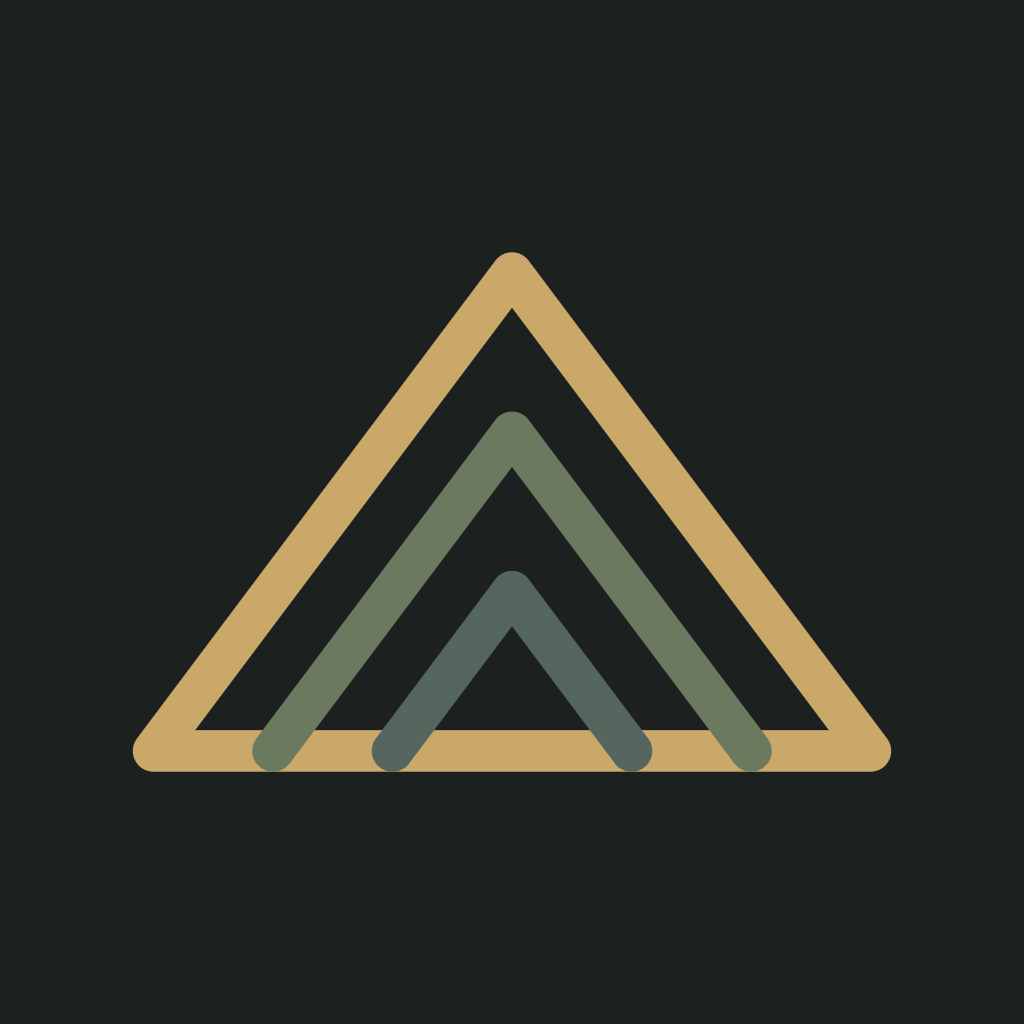
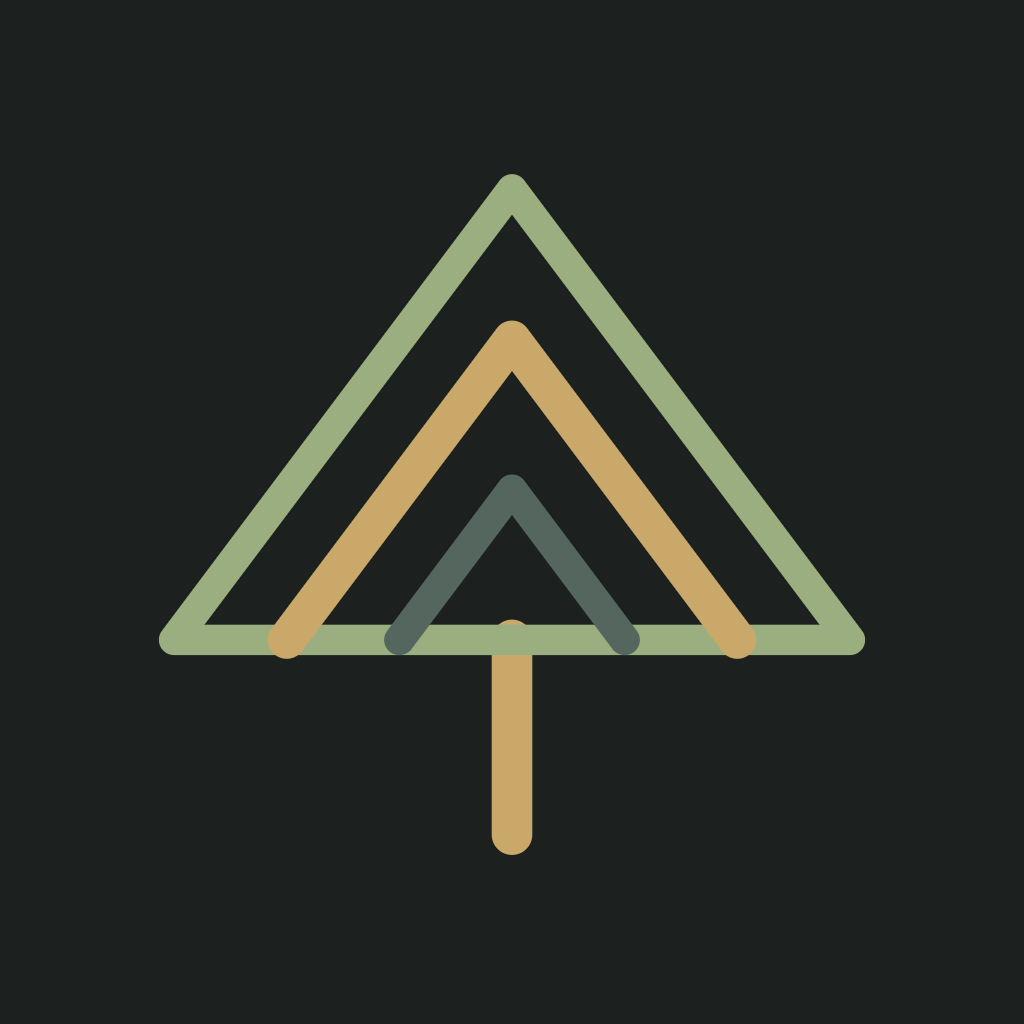
Green canopy, gold trunk, and one ring lit per app
The triangles are untouched: same ratio, same nesting, same shared
baseline. What changed around them is the colour and the trunk under them.

The canopy is one green ramp and the gold moved down to the trunk. Gold is
the family accent, so the mark's one warm element is now the part the family
is named for: the canopy is what grows and the trunk is what becomes the
log. Brown was tried first and refused on measurement, at 2.66:1 on the
ground where it read as the dimmest thing in the mark; gold is 7.22:1 and
anchors the whole thing, which matters because green is a much weaker
carrier than gold and the mark is quieter than it was.

The ramp had to climb past sage rather than below it. The palette's own
three greens run 1.76:1, 2.68:1 and 3.55:1, which is one step and a rumour,
since the darkest is already invisible. The new three are 6.79, 4.26 and
2.68, evenly spaced at 1.59x, lightest outermost so the silhouette is the
strongest line, which is the same reasoning that once put gold there.

Moving gold out of the canopy freed it to mean exactly one thing, which is
this app. An icon lights one ring and the family mark lights none, so the
two can never be confused. That was the flaw in the previous system, where
Untilt's icon and the family mark differed by one stroke's tone. Log is
Observe, so every icon this repo writes lights the middle ring, and the
static pages carry the unlit family mark.

The insets came in with it. A canopy with a trunk under it is about as tall
[…]

Changed region(s): [[0.125, 0.1562, 0.875, 0.8438]]

diff --git a/src/theme/__tests__/palette.test.ts b/src/theme/__tests__/palette.test.ts
@@ -18,11 +18,20 @@ import { colors } from '../index';
 
 const ROOT = join(__dirname, '..', '..', '..');
 const brand = readFileSync(join(ROOT, 'BRAND.md'), 'utf8');
+/**
+ * Only the palette table. The document has other tables with a name and a hex
+ * in them, the canopy ramp's measurements among them, and parsing the whole
+ * file swept those up as if they were tokens.
+ */
+const paletteSection = brand.slice(
+  brand.indexOf('## The palette'),
+  brand.indexOf('##', brand.indexOf('## The palette') + 3),
+);
 const iconScript = readFileSync(join(ROOT, 'scripts', 'generate-icons.mjs'), 'utf8');
 
 /** Every `| Name | \`#hex\` | ... |` row of the palette table, lowercased. */
 const declared = new Map<string, string[]>(
-  [...brand.matchAll(/^\|\s*([A-Za-z]+)\s*\|\s*(`#[0-9a-fA-F]{6}`(?:\s*\/\s*`#[0-9a-fA-F]{6}`)?)\s*\|/gm)].map(
+  [...paletteSection.matchAll(/^\|\s*([A-Za-z]+)\s*\|\s*(`#[0-9a-fA-F]{6}`(?:\s*\/\s*`#[0-9a-fA-F]{6}`)?)\s*\|/gm)].map(
     (row) => [row[1].toLowerCase(), [...row[2].matchAll(/#[0-9a-fA-F]{6}/g)].map((h) => h[0].toLowerCase())],
   ),
 );
@@ -34,6 +43,12 @@ const brandColor = (token: string, index = 0): string => {
 };
 
 describe('the palette table parses', () => {
+  it('lists the canopy ramp, whose names are two words and so are not tokens', () => {
+    for (const ring of ['#9aae80', '#75886a', '#55665e']) {
+      expect(paletteSection).toContain(ring);
+    }
+  });
+
   it('finds every token the app needs', () => {
     expect([...declared.keys()].sort()).toEqual(
       ['cream', 'forest', 'gold', 'ground', 'muted', 'rim', 'ring', 'sage'].sort(),
@@ -65,27 +80,57 @@ describe('the app implements the family palette', () => {
 });
 
 describe('the generated icons draw the family mark', () => {
-  /** MARK_COLORS, outermost first, as `#rrggbb`. */
-  const markColours = [
-    ...iconScript.slice(iconScript.indexOf('const MARK_COLORS')).matchAll(/\[(0x[0-9a-f]{2}(?:, 0x[0-9a-f]{2}){2})\]/g),
+  /** CANOPY, outermost first, as `#rrggbb`. */
+  const canopy = [
+    ...iconScript.slice(iconScript.indexOf('const CANOPY')).matchAll(/\[(0x[0-9a-f]{2}(?:, 0x[0-9a-f]{2}){2})\]/g),
   ]
     .slice(0, 3)
     .map((m) => `#${m[1].split(', ').map((b) => b.slice(2)).join('')}`);
 
-  it('takes its outer two strokes straight from the table', () => {
-    expect(markColours[0]).toBe(brandColor('gold'));
-    expect(markColours[1]).toBe(brandColor('sage'));
+  const luminance = (hex: string): number => {
+    const channel = (v: number): number => {
+      const s = v / 255;
+      return s <= 0.03928 ? s / 12.92 : ((s + 0.055) / 1.055) ** 2.4;
+    };
+    const [r, g, b] = [1, 3, 5].map((i) => channel(parseInt(hex.slice(i, i + 2), 16)));
+    return 0.2126 * r + 0.7152 * g + 0.0722 * b;
+  };
+  const onGround = (hex: string): number => {
+    const [hi, lo] = [luminance(hex), luminance(brandColor('ground'))].sort((x, y) => y - x);
+    return (hi + 0.05) / (lo + 0.05);
+  };
+
+  it('climbs past sage rather than below it', () => {
+    // The palette's own three greens run 1.76, 2.68 and 3.55 on the ground,
+    // which is one step and a rumour: the darkest is already invisible.
+    expect(onGround(canopy[0])).toBeGreaterThan(onGround(brandColor('sage')));
+    expect(canopy).not.toContain(brandColor('forest'));
   });
 
-  it('lifts the inner stroke off forest, which is a border colour', () => {
-    expect(markColours[2]).not.toBe(brandColor('forest'));
-    expect(markColours[2]).toBe('#55665e');
+  it('is evenly spaced, and lightest on the outside', () => {
+    const steps = [onGround(canopy[0]) / onGround(canopy[1]), onGround(canopy[1]) / onGround(canopy[2])];
+    for (const step of steps) expect(step).toBeGreaterThan(1.3);
+    expect(Math.abs(steps[0] - steps[1])).toBeLessThan(0.25);
+    // Lightest outermost, so the silhouette is the strongest line.
+    expect(onGround(canopy[0])).toBeGreaterThan(onGround(canopy[2]));
+  });
+
+  it('keeps the gold out of the canopy and on the trunk', () => {
+    expect(canopy).not.toContain(brandColor('gold'));
+    expect(iconScript).toContain('const GOLD = [0xc9, 0xa8, 0x6a];');
   });
 
   it('draws one baseline rather than three', () => {
     // Three coincident bases stripe the line into three colours. Only the
     // outermost triangle is closed; see BRAND.md.
     expect(iconScript).toContain('if (i === 0) segments.push([...left, ...right]);');
+  });
+
+  it('lights exactly one ring per app, and none for the family', () => {
+    expect(iconScript).toContain("export const RINGS = { ground: 0, observe: 1, learn: 2 };");
+    // Log is Observe, so every icon this script writes lights the middle ring.
+    expect(iconScript).toContain('const LOG = RINGS.observe;');
+    expect(iconScript.match(/lit: LOG/g)?.length).toBe(10);
   });
 });
 

diff --git a/public/chip.html b/public/chip.html
@@ -151,15 +151,13 @@
   <body>
     <div class="wrap">
       <header class="hero">
-        <svg class="mark" viewBox="0 0 200 112" role="img" aria-label="Three nested triangles sharing a baseline">
-          <!-- One baseline, three peaks. The outer triangle is closed and
-               carries the line; the two inside it stand on it. Gold outermost,
-               because that stroke is the silhouette and forest measures 1.76:1
-               on this ground. See BRAND.md. -->
-          <g fill="none" stroke-width="5" stroke-linejoin="round" stroke-linecap="round">
-            <path d="M10 100 L190 100 L100 20 Z" stroke="#c9a86a" />
-            <path d="M40 100 L100 47 L160 100" stroke="#6b7a5e" />
-            <path d="M70 100 L100 73 L130 100" stroke="#55665e" />
+        <svg class="mark" viewBox="0 0 200 200" role="img" aria-label="Three nested triangles sharing a baseline">
+          <!-- The family mark: the canopy in one green ramp, nothing lit. An app icon lights exactly one ring gold; this is every app, so it lights none. See BRAND.md. -->
+          <g fill="none" stroke-linejoin="round" stroke-linecap="round">
+            <path d="M100 125 L100 163" stroke="#c9a86a" stroke-width="8" />
+            <path d="M34 125 L166 125 L100 37 Z" stroke="#9aae80" stroke-width="6" />
+            <path d="M56 125 L100 66 L144 125" stroke="#75886a" stroke-width="6" />
+            <path d="M78 125 L100 96 L122 125" stroke="#55665e" stroke-width="6" />
           </g>
         </svg>
         <h1>Be the <span class="caps">LOG</span>.</h1>

diff --git a/public/404.html b/public/404.html
@@ -24,13 +24,15 @@
   </head>
   <body>
     <div class="box">
-      <svg viewBox="0 0 200 112" role="img" aria-label="Three nested triangles sharing a baseline">
-        <g fill="none" stroke-width="5" stroke-linejoin="round" stroke-linecap="round">
-          <path d="M10 100 L190 100 L100 20 Z" stroke="#c9a86a" />
-          <path d="M40 100 L100 47 L160 100" stroke="#6b7a5e" />
-          <path d="M70 100 L100 73 L130 100" stroke="#55665e" />
-        </g>
-      </svg>
+      <svg viewBox="0 0 200 200" role="img" aria-label="Three nested triangles sharing a baseline">
+          <!-- The family mark: the canopy in one green ramp, nothing lit. An app icon lights exactly one ring gold; this is every app, so it lights none. See BRAND.md. -->
+          <g fill="none" stroke-linejoin="round" stroke-linecap="round">
+            <path d="M100 125 L100 163" stroke="#c9a86a" stroke-width="8" />
+            <path d="M34 125 L166 125 L100 37 Z" stroke="#9aae80" stroke-width="6" />
+            <path d="M56 125 L100 66 L144 125" stroke="#75886a" stroke-width="6" />
+            <path d="M78 125 L100 96 L122 125" stroke="#55665e" stroke-width="6" />
+          </g>
+        </svg>
       <h1>Nothing at this address</h1>
       <p>
         The page you asked for is not here. <a href="/">The three apps</a> are,

diff --git a/public/home.html b/public/home.html
@@ -121,11 +121,13 @@
   <body>
     <div class="wrap">
       <header class="hero">
-        <svg class="mark" viewBox="0 0 200 112" role="img" aria-label="Three nested triangles sharing a baseline">
-          <g fill="none" stroke-width="5" stroke-linejoin="round" stroke-linecap="round">
-            <path d="M10 100 L190 100 L100 20 Z" stroke="#c9a86a" />
-            <path d="M40 100 L100 47 L160 100" stroke="#6b7a5e" />
-            <path d="M70 100 L100 73 L130 100" stroke="#55665e" />
+        <svg class="mark" viewBox="0 0 200 200" role="img" aria-label="Three nested triangles sharing a baseline">
+          <!-- The family mark: the canopy in one green ramp, nothing lit. An app icon lights exactly one ring gold; this is every app, so it lights none. See BRAND.md. -->
+          <g fill="none" stroke-linejoin="round" stroke-linecap="round">
+            <path d="M100 125 L100 163" stroke="#c9a86a" stroke-width="8" />
+            <path d="M34 125 L166 125 L100 37 Z" stroke="#9aae80" stroke-width="6" />
+            <path d="M56 125 L100 66 L144 125" stroke="#75886a" stroke-width="6" />
+            <path d="M78 125 L100 96 L122 125" stroke="#55665e" stroke-width="6" />
           </g>
         </svg>
         <h1>Be the <span class="caps">LOG</span>.</h1>

diff --git a/BRAND.md b/BRAND.md
@@ -11,9 +11,31 @@ three repos enforce that in CI and copy gets lifted verbatim out of this file.
 
 ## The mark
 
-Three nested triangles sharing a common baseline. Stroked, never filled.
-Smallest to largest reads **Learn, Observe, Ground**, which is the order the
-family is named in and the order a player moves through.
+Three nested triangles sharing a common baseline, standing on a trunk. Stroked,
+never filled. Smallest to largest reads **Learn, Observe, Ground**, which is the
+order the family is named in and the order a player moves through.
+
+**The triangles have never changed.** Same ratio, same nesting, same shared
+baseline. What changed around them, in September 2026, is the color and the
+trunk.
+
+**The canopy is one green ramp and the gold moved to the trunk.** Gold is the
+family accent, so putting it on the trunk makes the mark's one warm element the
+part the family is named for: the canopy is what grows, and the trunk is what
+becomes the log. Brown was tried and refused at 2.66:1 on the ground, where it
+read as the dimmest thing in the mark; gold is 7.22:1 and anchors it, which
+matters because green is a much weaker carrier.
+
+**And that freed gold to mean one thing, which is *this app*.** An app icon
+lights exactly one ring gold and the family mark lights none, so the two can
+never be mistaken for each other.
+
+| | Lights |
+|---|---|
+| The family mark | Nothing. Canopy in the ramp, gold trunk only. |
+| **TiltProof** | The innermost ring. Learn. |
+| **Log** | The middle ring. Observe. |
+| **Untilt** | The outermost ring, and the baseline with it, since a baseline is what Ground is. |
 
 The mark is canonical on the card protector, and app icons, favicons and empty
 states derive from the same geometry rather than redrawing it.
@@ -29,25 +51,28 @@ into three colors and reads as a mistake at every size. So the outer triangle is
 closed and carries the line, and the two inside it are open chevrons standing on
 it. The line they stand on is gold, which is Ground, which is the point.
 
-**Gold is the outermost stroke.** This reverses what this document recommended
-before anything was drawn, and the reason is measured rather than aesthetic:
+**The canopy ramp had to climb past sage, not below it.** The palette's own
+three greens measure 1.76:1, 2.68:1 and 3.55:1 on the ground, which is one step
+and a rumour: the darkest is already invisible, which is why gold used to be on
+the outside at all.
 
-| Stroke on the ground | Ratio |
-|---|---|
-| Gold `#c9a86a` | **7.22:1** |
-| Sage `#6b7a5e` | 3.55:1 |
-| Forest `#3d4a44` | 1.76:1 |
+| Ring | Color | On the ground | Step |
+|---|---|---|---|
+| Outer | `#9aae80` | **6.79:1** | |
+| Middle | `#75886a` | 4.26:1 | 1.59x |
+| Inner | `#55665e` | 2.68:1 | 1.59x |
 
-Forest on the outside meant the stroke that gives the mark its silhouette was
-the one nobody could see. Gold on the outside is the brightest color on the
-defining edge, and it happens to restore the original brief's own order, forest
-to sage to gold reading inward to outward, which was one of the two
-contradictory specs recorded here.
+Even steps, and **lightest on the outside so the silhouette is the strongest
+line**, which is the same reasoning that once put gold there. Plain forest
+`#3d4a44` stays what it is, a border color where 1.76:1 is correct because a
+border should be quiet. It is not a stroke color on this ground.
 
-**The innermost stroke is forest lifted to `#55665e`**, 2.71:1. Plain forest
-stays what it is: a border color, where 1.76:1 is correct because a border
-should be quiet. It is simply not a stroke color on this ground, and the mark
-needs its third line to exist.
+**One measurement that looked alarming and was the wrong instrument.** Gold on
+the outer ring is 1.06:1, so on paper Untilt's lit ring should vanish into its
+neighbour. It does not: those two are 56 degrees apart in hue, and a contrast
+ratio answers whether text is legible rather than whether one ring looks
+different from the next. Warm against cool carries it at equal brightness. The
+number is only the right tool for type.
 
 ## The palette
 
@@ -56,9 +81,12 @@ needs its third line to exist.
 | Ground | `#1c211f` | Background, all three apps |
 | Rim | `#2e3a35` | Borders |
 | Ring | `#333f39` | Subtle dividers |
-| Gold | `#c9a86a` | The accent, spent sparingly |
-| Sage | `#6b7a5e` | The mark's middle stroke |
-| Forest | `#3d4a44` | The mark's outer stroke |
+| Gold | `#c9a86a` | The accent. The trunk, and whichever ring an app lights |
+| Sage | `#6b7a5e` | General purpose green. No longer in the mark |
+| Forest | `#3d4a44` | Borders. Never a stroke on this ground, see below |
+| Canopy outer | `#9aae80` | The mark's outermost ring |
+| Canopy middle | `#75886a` | The mark's middle ring |
+| Canopy inner | `#55665e` | The mark's innermost ring |
 | Cream | `#e8e4da` | Body text |
 | Muted | `#b7c0ba` / `#828e89` | Secondary and tertiary text |
 
